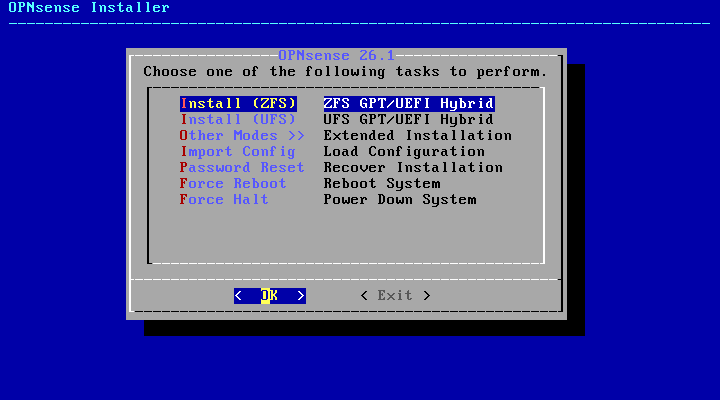
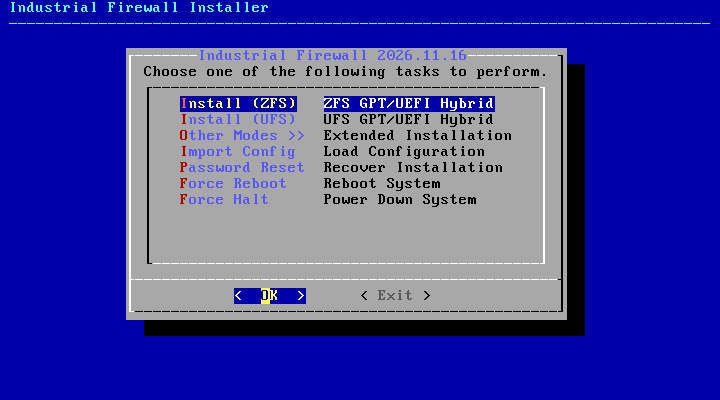
Document the branded single-file ISO and its focused verification

Changed region(s): [[0.275, 0.12, 0.6417, 0.15], [0.0, 0.0, 0.2444, 0.03], [0.275, 0.0, 0.3667, 0.03]]

diff --git a/docs/manual/安装与使用说明.md b/docs/manual/安装与使用说明.md
@@ -8,46 +8,41 @@
 
 | 交付件 | 用途 |
 | --- | --- |
-| Gitee Release 中的镜像分卷和 `SHA256SUMS` | 恢复并验证安装 ISO |
+| 单文件 ISO 和同名 `.iso.sha256` | 校验并挂载安装 ISO |
 | `core` 仓库的发布标签 | 核心系统、插件、构建脚本、NC-Link 参考源码、本文档 |
 | 软件包清单和构建提交号 | 确认镜像来源和组件版本 |
 | 使用说明 PDF | 含截图，可离线阅读 |
 
 准备一台 amd64 虚拟机或物理机。建议从 4 核 CPU、8 GB 内存、40 GB 独立系统盘、两张网卡开始；此建议不用于估算吞吐、连接数和日志容量。安装测试可使用较小的虚拟磁盘。预先记录网卡 MAC、WAN 类型、LAN 地址、管理网段和上游网关。若 WAN 下接实验室的私有网络，需要在 WAN 设置中检查是否启用“阻止专用网络”。生产上线前先确认管理路径、导出现有配置并准备本地或带外控制台。安装选中的系统盘会被清空。
 
-## 2. 校验和恢复 ISO
+## 2. 校验 ISO
 
-从同一个发布版本下载所有 `*.iso.zst.part-*` 及 `SHA256SUMS`，放入空目录。Ubuntu/WSL 下安装 `zstd`，然后执行：
+本次镜像按单个文件交付：`industrial-firewall-2026.11.16-amd64.iso`，不需要合并分卷。将 ISO 与同名校验文件放在同一目录，在 Ubuntu/WSL 执行：
 
 ```sh
-sha256sum --ignore-missing -c SHA256SUMS
-export LC_ALL=C
-cat industrial-firewall-2026.11.16-amd64.iso.zst.part-* > industrial-firewall-2026.11.16-amd64.iso.zst
-sha256sum --ignore-missing -c SHA256SUMS
-zstd -d industrial-firewall-2026.11.16-amd64.iso.zst
-sha256sum --ignore-missing -c SHA256SUMS
+sha256sum -c industrial-firewall-2026.11.16-amd64.iso.sha256
 ```
 
-第一次应看到每个分卷 `OK`；缺少任何分卷会使合成压缩文件校验失败。只有最终 `industrial-firewall-2026.11.16-amd64.iso` 校验为 `OK` 才能安装。不要将压缩包或单个分卷直接挂到虚拟光驱。
+只有结果为 `OK` 才能挂载安装。Windows 可用 PowerShell 的 `Get-FileHash -Algorithm SHA256` 计算 ISO 哈希，再与校验文件比较。本次 ISO 直接从本地交付目录获取；源码和说明书统一在原 Gitee core 仓库维护。
 
 ## 3. 启动与安装
 
-1. 在虚拟化平台创建一个空白虚拟机，挂载 ISO 到虚拟光驱。LAN 接隔离的管理网络，WAN 接出口测试网络。硬件服务器可用带外虚拟光驱挂载 ISO。启用 BIOS 或 UEFI；若启用了 Secure Boot，需要先按平台部署策略处理兼容性。
+1. 在虚拟化平台创建一个空白虚拟机，挂载 ISO 到虚拟光驱。LAN 接隔离的管理网络，WAN 接出口测试网络。硬件服务器可用带外虚拟光驱挂载 ISO。选择 BIOS 或 UEFI。本轮未验收 Secure Boot，安装测试中关闭该选项。
 2. 从光驱启动。等待出现控制台提示。若网卡分配与接线不符，使用控制台的 **Assign interfaces** 将 WAN/LAN 指定到正确的 MAC 对应端口。首次访问的默认 LAN 地址为 `192.168.1.1/24`。
 3. 在介质控制台以 `installer` 登录，初装介质口令为 `opnsense`。进入安装器后，默认键盘布局通常可以直接确认。
 4. 选 **Install (UFS)**，选择待清空的目标磁盘并确认。没有特殊存储需求时可沿用该选项。ZFS 的布局和磁盘数量按现场存储规划选择。
-5. 在 **Final Configuration** 选 **Root Password**，设置强口令。再选 **Complete Install**。重启前弹出或断开 ISO，并从系统盘启动。安装器口令只用于安装介质；不应在已安装系统中继续使用。
+5. 在 **Final Configuration** 选 **Root Password**，设置强口令。再选 **Complete Install**。选择重启；等系统退出 Live 环境后在固件启动阶段断开 ISO，或设置系统盘优先启动。不要在 Live 环境运行中提前弹出光驱。安装器口令只用于安装介质；不应在已安装系统中继续使用。
 
 安装器在“Preparing target system”或修改口令后可能短暂停留：系统正在重建目标环境的登录配置并等待后台调用超时，验收 VM 中需要数分钟。确认虚拟磁盘仍有活动后等待最终完成页面，不要提前强制关机。
 
 
 ![从发布介质启动并进入安装器](images/install-menu.png)
 
-图 1：在空白虚拟机选择安装方式；确认目标盘后才会写盘。
+图 1：产品安装器的安装方式选择页；确认目标盘后才会写盘。
 
-![安装完成前的最终设置](images/install-final.png)
+![选择安装磁盘](images/install-disk.png)
 
-图 2：在最终配置中设置管理员口令并完成安装。
+图 2：确认系统盘；选择并确认之前先核对磁盘容量及用途。
 
 ## 4. 首次启动和 Web 管理
 
@@ -193,3 +188,10 @@ pkg query '%n %v'
 ```
 
 设备日志可从“系统 → 日志”“防火墙 → 日志”和各模块诊断访问。报障时提供产品版本、时间、页面或接口、操作步骤和相关日志片段；去除密码、私钥和 API Token。开发及重新构建见 [镜像构建说明](../../tools/release/README.md)。
+
+
+## 12. 启动与品牌显示
+
+安装器、键盘选择、控制台欢迎语、版本横幅和登录前提示统一显示 Industrial Firewall。常规启动默认采用静默内核输出；需要排查启动故障时，在加载器命令行执行 `unset boot_mute` 后启动，或登录后读取启动日志。
+
+内部软件包名、API 命名空间、分区类型与许可证中的上游标识予以保留，以维持插件、升级工具及系统接口兼容。品牌配置源文件为 `src/opnsense/version/branding.conf`，安装器源码为 `contrib/installer/`。

diff --git a/docs/RELEASE_TEST_REPORT.md b/docs/RELEASE_TEST_REPORT.md
@@ -2,7 +2,14 @@
 
 验证分为两套环境：已配置的 FreeBSD 14.3 审核机用于主动探针、报文回放及策略测试；发布 ISO 用于隔离的空白虚拟机安装和出厂配置验证。审核机配置、日志、口令、代理地址和密钥均未写入镜像或 Git。
 
-## 验证结果
+## 镜像来源
+
+- core 与安装器构建提交：`c2008b0ae536476b4cdee19f2c9c1702696cdfb1`，后续发布标签增加操作文档及发布记录。
[1 lines of base64/hex data omitted]
+- 本次交付为单个 ISO 与同名 SHA-256 文件，不使用分卷。
+- 系统包清单和 ISO 校验文件随本地交付提供；上游输入锁定清单位于 `tools/release/upstream-inputs.sha256`。
+
+## 既有功能回归记录（品牌修订前）
 
 | 范围 | 方法及结果 |
 | --- | --- |
@@ -22,7 +29,9 @@
 | IPsec 和 OpenVPN | 配置页、连接/实例查询及未配置服务器时的 OpenVPN 导出页面均通过浏览器烟测；当前没有把运行环境的 VPN 端点配置复制到镜像。 |
 | 双机热备 | 高可用设置与读取接口正常；未完成真实双机切换测试。 |
 | 说明书 | Markdown 与 15 页 PDF，含 14 张实拍截图；逐图加载检查，中文文本验证及独立 PDF 渲染检查通过。 |
-| 系统管理 | 仪表盘、配置备份入口、原生接口页面、插件页面及官方签名插件目录检查通过；仪表盘拖动高度、保存和刷新持久化已在审核机验证。没有在审核机上恢复配置或改动现网。 |
+| 系统管理 | 仪表盘、配置备份与加密备份下载、原生接口页面、插件页面及官方签名插件目录检查通过；仪表盘拖动高度、保存和刷新持久化已在审核机验证。没有在审核机上恢复配置或改动现网。 |
+
+安装验收脚本曾提前弹出仍承载 Live 系统的光驱，造成临时环境的分页读取报错。已纠正顺序：退出 Live 环境或进入系统盘后再弹出；该问题不作为产品功能的通过记录。
 
 ## 交付边界
 
@@ -33,10 +42,20 @@
 - 下载防病毒覆盖已配置显式代理上的可见 HTTP。对端到端加密 HTTPS、直连和超限文件不做默认内容检查。
 - ISO 使用受信发布包；滚动仓库后续发生变化时，应使用同一产品源码及新的受信锁定输入重新构建并复测。
 
+## 本次品牌修订核对
+
+- BIOS 从单文件 ISO 启动成功；安装介质挂载正常，卷标为 INDUSTRIAL_INSTALL。
+- 控制台、键盘选择、安装方式和目标磁盘页面均显示 Industrial Firewall，未显示原品牌标题。
+- PHP/Shell 语法检查与软件包文件清单核对通过；安装器以独立定制软件包维护，保留原版权及许可证。
+- 核对停在目标磁盘选择页，没有执行本轮安装写盘或全量回归。
+- 交付单个 ISO，附同名 SHA-256 文件；本地交付目录不含分卷。
+
 ## 本轮修复及发布核对
 
+本次品牌修订按用户要求仅做相关 PHP/Shell 语法、文件清单和启动/安装界面核对，不重复执行全量功能回归。上面的功能结果来自之前已完成的回归。
+
 - 补齐 core 包清单中的仪表盘样式、通用页面样式、品牌图形和固件插件辅助脚本，干净安装能够获得与热部署一致的资源。
-- 移除基础系统的上游登录字符横幅；保留许可证、组件实际名称和代码来源。
+- 替换会重新生成上游字符横幅的认证模板，并更新基础登录模板和缓存；正常重启后确认有效。保留许可证、组件实际名称和代码来源。
 - 离线安装包补上官方仓库来源注记；保留 core 软件包集版本标记的原生格式，单独输出完整包清单。
 - 热部署工具改为读取同一 core 提交下的插件树，原 core 历史、原始插件和工具快照来源可追溯。
 

diff --git a/tools/release/README.md b/tools/release/README.md
@@ -1,6 +1,6 @@
 # 工业可信防火墙镜像构建
 
-源代码统一从 [Gitee core](https://gitee.com/xwy6848/core) 获取。根目录是 core，`plugins/` 是插件，`tools/` 是镜像工具，`contrib/` 包含 NC-Link 驱动与适配器参考源码。插件原始快照为 `106b7fdd922a4ca6c52be45998006060ba74611e`，工具快照为 `4722ec6a73d286d333ee54f467d318fb96b881fb`；其来源与上游许可证保留在相应目录。NC-Link 适配器和观察代理不打入发布 ISO。
+源代码统一从 [Gitee core](https://gitee.com/xwy6848/core) 获取。根目录是 core，`plugins/` 是插件，`tools/` 是镜像工具，`contrib/` 包含 NC-Link 驱动与适配器参考源码。插件原始快照为 `106b7fdd922a4ca6c52be45998006060ba74611e`，工具快照为 `4722ec6a73d286d333ee54f467d318fb96b881fb`；其来源与上游许可证保留在相应目录。NC-Link 适配器和观察代理不打入发布 ISO。产品安装器的定制源码位于 `contrib/installer/`。
 
 ## 构建准备
 
@@ -16,11 +16,11 @@ cd /absolute/core
 sh tools/release/build-iso.sh /absolute/inputs /absolute/output /absolute/new-work-dir
 ```
 
-脚本用受信系统包创建全新根文件系统，再安装本仓库构建的 core、Squid、ClamAV、应用识别、工业白名单、工业安全包。引导与安装由上游 DVD/media 工具驱动；不复制审核机凭据、网络配置和数据库。出厂规则来自 `src/etc/config.xml.sample` 与 `examples/app-identification/`。输出 ISO、构建提交号、包清单和原始 ISO 校验值。随机种子和文件打包时间等因素会影响字节级哈希，构建记录用提交和输入清单追踪。
+脚本用受信系统包创建全新根文件系统，再安装本仓库构建的产品安装器、core、Squid、ClamAV、应用识别、工业白名单、工业安全包。引导与安装由上游 DVD/media 工具驱动；不复制审核机凭据、网络配置和数据库。出厂规则来自 `src/etc/config.xml.sample` 与 `examples/app-identification/`。输出 ISO、构建提交号、包清单和原始 ISO 校验值。随机种子和文件打包时间等因素会影响字节级哈希，构建记录用提交和输入清单追踪。
 
 ## 发布与维护
 
-先用空白虚拟机完成启动、安装、卸载光驱、系统盘重启和 Web 登录。验证功能和回归范围后，再通过 Gitee Release 发布。分卷用于附件传输，保留原始 ISO 和压缩后完整文件的 SHA-256。见 [安装与使用说明](../../docs/manual/安装与使用说明.md) 与 [测试报告](../../docs/RELEASE_TEST_REPORT.md)。
+先用空白虚拟机完成启动、安装、卸载光驱、系统盘重启和 Web 登录。验证功能和回归范围后，再通过 Gitee Release 发布。交付使用单个 ISO 和同名 SHA-256 文件，不再生成分卷。本次镜像从本地交付；Gitee 维护源码、说明书及小型附件。见 [安装与使用说明](../../docs/manual/安装与使用说明.md) 与 [测试报告](../../docs/RELEASE_TEST_REPORT.md)。
 
 审核机热部署使用根目录 `Scripts/deploy-review.py`，直接读取本仓库已提交的 core 和 `plugins/`。生产环境不使用源码挂载或审核机脚本。若要升级底层依赖、系统内核、定制包或规则库，先创建测试构建并按测试报告复验。
 
